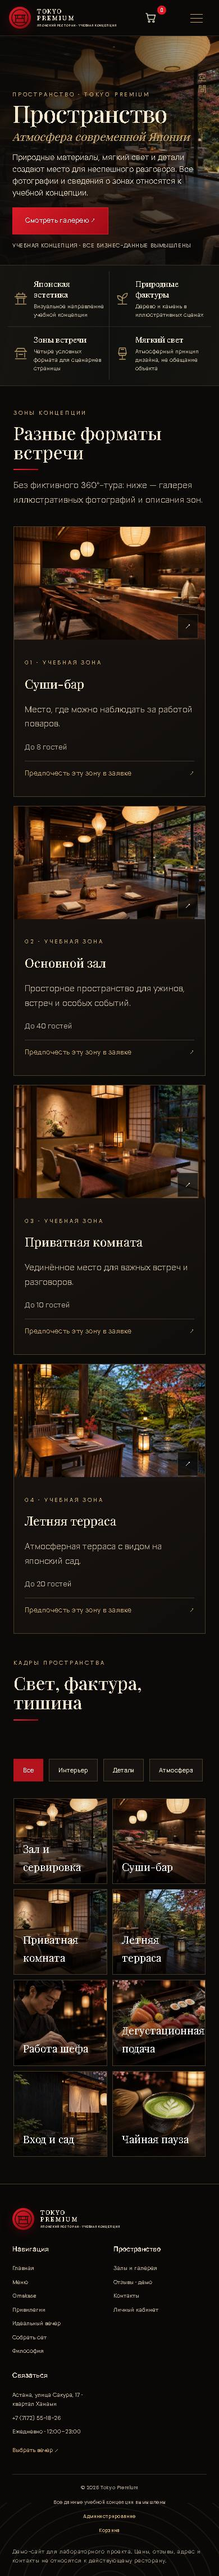
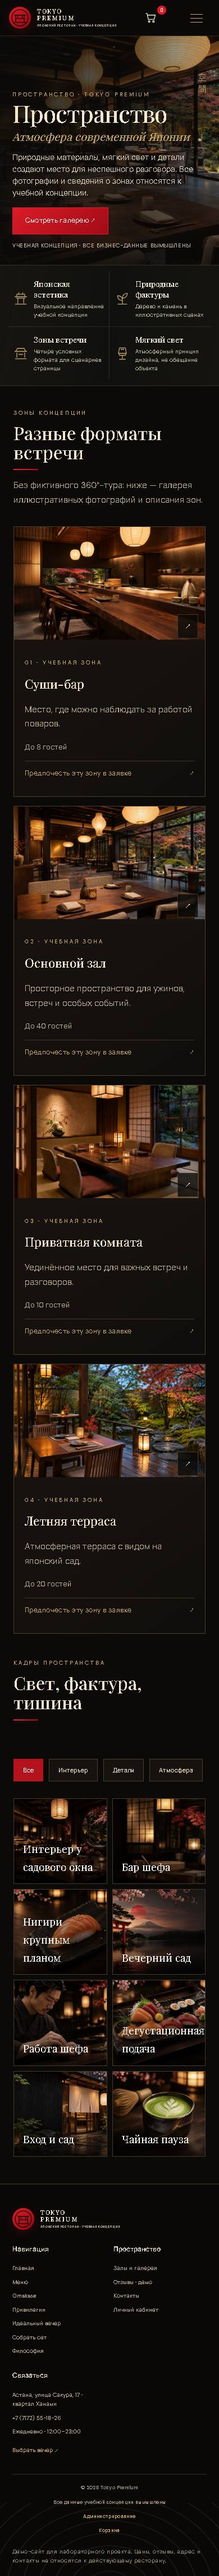
Deduplicate Tokyo gallery photography

Changed region(s): [[0.0615, 0.6834, 0.9538, 0.7766]]

diff --git a/docs/gallery.html b/docs/gallery.html
@@ -7,7 +7,7 @@
   <article><span aria-hidden="true"><svg viewBox="0 0 32 32"><path d="M10 5h12l2 11H8l2-11Zm-2 11h16l-2 4H10l-2-4Zm8 4v6m-6 2h12M13 8h6"/></svg></span><div><h3>Мягкий свет</h3><p>Атмосферный принцип дизайна, не обещание объекта</p></div></article>
 </section>
 <section class="section" id="spaces"><div class="editorial-heading"><div class="kicker">Зоны концепции</div><h2>Разные форматы встречи</h2><p>Без фиктивного 360°-тура: ниже — галерея иллюстративных фотографий и описания зон.</p></div><div class="zone-grid"><article class="zone-card" data-gallery-filter="interior"><button type="button" class="lightbox-trigger" data-lightbox="assets/generated/room-sushi-counter.webp" aria-label="Увеличить фото: Суши-бар"><img src="assets/generated/room-sushi-counter.webp" alt="Суши-бар — иллюстративное изображение учебной концепции" loading="lazy" decoding="async"><span>↗</span></button><div><span class="kicker">01 · учебная зона</span><h3>Суши-бар</h3><p>Место, где можно наблюдать за работой поваров.</p><small>До 8 гостей</small><a class="zone-booking-link" href="booking.html?zone=%D0%A1%D1%83%D1%88%D0%B8-%D0%B1%D0%B0%D1%80">Предпочесть эту зону в заявке <span aria-hidden="true">↗</span></a></div></article><article class="zone-card" data-gallery-filter="interior"><button type="button" class="lightbox-trigger" data-lightbox="assets/generated/room-main-hall.webp" aria-label="Увеличить фото: Основной зал"><img src="assets/generated/room-main-hall.webp" alt="Основной зал — иллюстративное изображение учебной концепции" loading="lazy" decoding="async"><span>↗</span></button><div><span class="kicker">02 · учебная зона</span><h3>Основной зал</h3><p>Просторное пространство для ужинов, встреч и особых событий.</p><small>До 40 гостей</small><a class="zone-booking-link" href="booking.html?zone=%D0%9E%D1%81%D0%BD%D0%BE%D0%B2%D0%BD%D0%BE%D0%B9%20%D0%B7%D0%B0%D0%BB">Предпочесть эту зону в заявке <span aria-hidden="true">↗</span></a></div></article><article class="zone-card" data-gallery-filter="details"><button type="button" class="lightbox-trigger" data-lightbox="assets/generated/room-private-dining.webp" aria-label="Увеличить фото: Приватная комната"><img src="assets/generated/room-private-dining.webp" alt="Приватная комната — иллюстративное изображение учебной концепции" loading="lazy" decoding="async"><span>↗</span></button><div><span class="kicker">03 · учебная зона</span><h3>Приватная комната</h3><p>Уединённое место для важных встреч и разговоров.</p><small>До 10 гостей</small><a class="zone-booking-link" href="booking.html?zone=%D0%9F%D1%80%D0%B8%D0%B2%D0%B0%D1%82%D0%BD%D0%B0%D1%8F%20%D0%BA%D0%BE%D0%BC%D0%BD%D0%B0%D1%82%D0%B0">Предпочесть эту зону в заявке <span aria-hidden="true">↗</span></a></div></article><article class="zone-card" data-gallery-filter="atmosphere"><button type="button" class="lightbox-trigger" data-lightbox="assets/generated/room-garden-terrace.webp" aria-label="Увеличить фото: Летняя терраса"><img src="assets/generated/room-garden-terrace.webp" alt="Летняя терраса — иллюстративное изображение учебной концепции" loading="lazy" decoding="async"><span>↗</span></button><div><span class="kicker">04 · учебная зона</span><h3>Летняя терраса</h3><p>Атмосферная терраса с видом на японский сад.</p><small>До 20 гостей</small><a class="zone-booking-link" href="booking.html?zone=%D0%9B%D0%B5%D1%82%D0%BD%D1%8F%D1%8F%20%D1%82%D0%B5%D1%80%D1%80%D0%B0%D1%81%D0%B0">Предпочесть эту зону в заявке <span aria-hidden="true">↗</span></a></div></article></div></section>
-<section class="section dark" id="gallery" data-tp-gallery><div class="gallery-toolbar"><div class="editorial-heading"><div class="kicker">Кадры пространства</div><h2>Свет, фактура, тишина</h2></div><div class="filter-row" role="group" aria-label="Фильтр галереи"><button class="filter-btn active" data-gallery="all">Все</button><button class="filter-btn" data-gallery="interior">Интерьер</button><button class="filter-btn" data-gallery="details">Детали</button><button class="filter-btn" data-gallery="atmosphere">Атмосфера</button></div></div><div class="gallery-grid" id="gallery-grid"><button class="gallery-tile" type="button" data-gallery-filter="interior" data-lightbox="assets/generated/room-main-hall.webp" aria-label="Увеличить: Зал и сервировка"><img src="assets/generated/room-main-hall.webp" alt="Зал и сервировка — учебное изображение" loading="lazy" decoding="async"><span>Зал и сервировка</span></button><button class="gallery-tile" type="button" data-gallery-filter="interior" data-lightbox="assets/generated/room-sushi-counter.webp" aria-label="Увеличить: Суши-бар"><img src="assets/generated/room-sushi-counter.webp" alt="Суши-бар — учебное изображение" loading="lazy" decoding="async"><span>Суши-бар</span></button><button class="gallery-tile" type="button" data-gallery-filter="interior" data-lightbox="assets/generated/room-private-dining.webp" aria-label="Увеличить: Приватная комната"><img src="assets/generated/room-private-dining.webp" alt="Приватная комната — учебное изображение" loading="lazy" decoding="async"><span>Приватная комната</span></button><button class="gallery-tile" type="button" data-gallery-filter="atmosphere" data-lightbox="assets/generated/room-garden-terrace.webp" aria-label="Увеличить: Летняя терраса"><img src="assets/generated/room-garden-terrace.webp" alt="Летняя терраса — учебное изображение" loading="lazy" decoding="async"><span>Летняя терраса</span></button><button class="gallery-tile" type="button" data-gallery-filter="details" data-lightbox="assets/generated/chef-at-counter.webp" aria-label="Увеличить: Работа шефа"><img src="assets/generated/chef-at-counter.webp" alt="Работа шефа — учебное изображение" loading="lazy" decoding="async"><span>Работа шефа</span></button><button class="gallery-tile" type="button" data-gallery-filter="details" data-lightbox="assets/food/17-omakase-set.webp" aria-label="Увеличить: Дегустационная подача"><img src="assets/food/17-omakase-set.webp" alt="Дегустационная подача — учебное изображение" loading="lazy" decoding="async"><span>Дегустационная подача</span></button><button class="gallery-tile" type="button" data-gallery-filter="atmosphere" data-lightbox="assets/generated/contact-exterior.webp" aria-label="Увеличить: Вход и сад"><img src="assets/generated/contact-exterior.webp" alt="Вход и сад — учебное изображение" loading="lazy" decoding="async"><span>Вход и сад</span></button><button class="gallery-tile" type="button" data-gallery-filter="details" data-lightbox="assets/food/04-matcha-latte.webp" aria-label="Увеличить: Чайная пауза"><img src="assets/food/04-matcha-latte.webp" alt="Чайная пауза — учебное изображение" loading="lazy" decoding="async"><span>Чайная пауза</span></button></div><dialog class="image-lightbox" aria-label="Просмотр фотографии"><button class="lightbox-close" type="button" aria-label="Закрыть просмотр">×</button><img alt=""><p class="lightbox-caption" data-tp-gallery-caption data-lightbox-caption aria-live="polite" aria-atomic="true"></p></dialog></section>
+<section class="section dark" id="gallery" data-tp-gallery><div class="gallery-toolbar"><div class="editorial-heading"><div class="kicker">Кадры пространства</div><h2>Свет, фактура, тишина</h2></div><div class="filter-row" role="group" aria-label="Фильтр галереи"><button class="filter-btn active" data-gallery="all">Все</button><button class="filter-btn" data-gallery="interior">Интерьер</button><button class="filter-btn" data-gallery="details">Детали</button><button class="filter-btn" data-gallery="atmosphere">Атмосфера</button></div></div><div class="gallery-grid" id="gallery-grid"><button class="gallery-tile" type="button" data-gallery-filter="interior" data-lightbox="assets/generated/restaurant-interior.webp" aria-label="Увеличить: Интерьер у садового окна"><img src="assets/generated/restaurant-interior.webp" alt="Интерьер у садового окна — учебное изображение" loading="lazy" decoding="async"><span>Интерьер у садового окна</span></button><button class="gallery-tile" type="button" data-gallery-filter="interior" data-lightbox="assets/generated/omakase-chef-panorama-1920.webp" aria-label="Увеличить: Бар шефа"><img src="assets/generated/omakase-chef-panorama-1920.webp" alt="Бар шефа — учебное изображение" loading="lazy" decoding="async"><span>Бар шефа</span></button><button class="gallery-tile" type="button" data-gallery-filter="details" data-lightbox="assets/generated/nigiri-salmon-angle-02.jpg" aria-label="Увеличить: Нигири крупным планом"><img src="assets/generated/nigiri-salmon-angle-02.jpg" alt="Нигири крупным планом — учебное изображение" loading="lazy" decoding="async"><span>Нигири крупным планом</span></button><button class="gallery-tile" type="button" data-gallery-filter="atmosphere" data-lightbox="assets/generated/contact-landscape-torii-v1.webp" aria-label="Увеличить: Вечерний сад"><img src="assets/generated/contact-landscape-torii-v1.webp" alt="Вечерний сад — учебное изображение" loading="lazy" decoding="async"><span>Вечерний сад</span></button><button class="gallery-tile" type="button" data-gallery-filter="details" data-lightbox="assets/generated/chef-at-counter.webp" aria-label="Увеличить: Работа шефа"><img src="assets/generated/chef-at-counter.webp" alt="Работа шефа — учебное изображение" loading="lazy" decoding="async"><span>Работа шефа</span></button><button class="gallery-tile" type="button" data-gallery-filter="details" data-lightbox="assets/food/17-omakase-set.webp" aria-label="Увеличить: Дегустационная подача"><img src="assets/food/17-omakase-set.webp" alt="Дегустационная подача — учебное изображение" loading="lazy" decoding="async"><span>Дегустационная подача</span></button><button class="gallery-tile" type="button" data-gallery-filter="atmosphere" data-lightbox="assets/generated/contact-exterior.webp" aria-label="Увеличить: Вход и сад"><img src="assets/generated/contact-exterior.webp" alt="Вход и сад — учебное изображение" loading="lazy" decoding="async"><span>Вход и сад</span></button><button class="gallery-tile" type="button" data-gallery-filter="details" data-lightbox="assets/food/04-matcha-latte.webp" aria-label="Увеличить: Чайная пауза"><img src="assets/food/04-matcha-latte.webp" alt="Чайная пауза — учебное изображение" loading="lazy" decoding="async"><span>Чайная пауза</span></button></div><dialog class="image-lightbox" aria-label="Просмотр фотографии"><button class="lightbox-close" type="button" aria-label="Закрыть просмотр">×</button><img alt=""><p class="lightbox-caption" data-tp-gallery-caption data-lightbox-caption aria-live="polite" aria-atomic="true"></p></dialog></section>
 </main>
 <script>window.DISHES=[{"id":1,"category":"rolls","name":"Филадельфия","description":"Нежный лосось, сливочный сыр, огурец, рис, нори.","weight":"280 г","price":4500,"image_url":"assets\/food\/01-philadelphia.webp","featured":1,"active":1,"sort_order":1,"category_name":"Роллы"},{"id":3,"category":"sushi","name":"Нигири с лососем","description":"Классические нигири с лососем.","weight":"40 г","price":1200,"image_url":"assets\/food\/03-nigiri-salmon.webp","featured":0,"active":1,"sort_order":1,"category_name":"Суши и сашими"},{"id":4,"category":"drinks","name":"Матча латте","description":"Японский чай матча на кокосовом молоке.","weight":"300 мл","price":2500,"image_url":"assets\/food\/04-matcha-latte.webp","featured":0,"active":1,"sort_order":1,"category_name":"Напитки"},{"id":7,"category":"hot","name":"Рамен с говядиной","description":"Говяжий бульон, лапша, говядина и яйцо адзитама.","weight":"550 г","price":4800,"image_url":"assets\/food\/07-ramen-beef.webp","featured":1,"active":1,"sort_order":1,"category_name":"Горячее"},{"id":8,"category":"desserts","name":"Моти","description":"Рисовое тесто с ягодной начинкой.","weight":"120 г","price":2800,"image_url":"assets\/food\/08-mochi.webp","featured":0,"active":1,"sort_order":1,"category_name":"Десерты"},{"id":12,"category":"starters","name":"Тартар из тунца с юдзу","description":"Тунец ахи, понзу с юдзу, зелёное яблоко и хрустящий рис — прохладная закуска с чистым цитрусовым финалом.","weight":"140 г","price":4900,"image_url":"assets\/food\/12-tuna-tartare-yuzu.webp","featured":0,"active":1,"sort_order":1,"category_name":"Закуски"},{"id":14,"category":"soups","name":"Мисо-суп с вакаме","description":"Светлый бульон даси, паста сира-мисо, тофу, вакаме и зелёный лук.","weight":"300 мл","price":2400,"image_url":"assets\/food\/14-miso-soup.webp","featured":0,"active":1,"sort_order":1,"category_name":"Супы"},{"id":2,"category":"rolls","name":"Калифорния","description":"Снежный краб, авокадо, огурец, икра тобико, рис.","weight":"260 г","price":4000,"image_url":"assets\/food\/02-california.webp","featured":1,"active":1,"sort_order":2,"category_name":"Роллы"},{"id":6,"category":"sushi","name":"Нигири с тунцом","description":"Нигири с тунцом.","weight":"40 г","price":1500,"image_url":"assets\/food\/06-nigiri-tuna.webp","featured":0,"active":1,"sort_order":2,"category_name":"Суши и сашими"},{"id":11,"category":"hot","name":"Удон с курицей терияки","description":"Пшеничная лапша удон, курица и овощи в соусе терияки.","weight":"450 г","price":4200,"image_url":"assets\/food\/11-udon-chicken.webp","featured":0,"active":1,"sort_order":2,"category_name":"Горячее"},{"id":13,"category":"starters","name":"Гёдза с уткой","description":"Тонкое тесто, томлёная утка, имбирь и кунжутное масло. Подаём с соусом понзу собственного состава.","weight":"6 шт.","price":4600,"image_url":"assets\/food\/13-duck-gyoza.webp","featured":0,"active":1,"sort_order":2,"category_name":"Закуски"},{"id":19,"category":"desserts","name":"Матча-тирамису","description":"Крем маскарпоне, савоярди с ходзича и пудра из церемониальной матчи.","weight":"170 г","price":3600,"image_url":"assets\/food\/19-matcha-tiramisu.webp","featured":1,"active":1,"sort_order":2,"category_name":"Десерты"},{"id":20,"category":"drinks","name":"Юдзу-лимонад","description":"Домашняя цитрусовая основа юдзу, содовая и тонкая нота свежего имбиря.","weight":"300 мл","price":2300,"image_url":"assets\/food\/20-yuzu-lemonade.webp","featured":0,"active":1,"sort_order":2,"category_name":"Напитки"},{"id":5,"category":"rolls","name":"Зелёный дракон","description":"Копчёный угорь, авокадо, сливочный сыр, соус унаги, кунжут.","weight":"300 г","price":5500,"image_url":"assets\/food\/05-green-dragon.webp","featured":0,"active":1,"sort_order":3,"category_name":"Роллы"},{"id":10,"category":"sushi","name":"Гункан с икрой","description":"Рис и нори, наполненные икрой лосося.","weight":"50 г","price":1800,"image_url":"assets\/food\/10-gunkan-roe.webp","featured":0,"active":1,"sort_order":3,"category_name":"Суши и сашими"},{"id":15,"category":"hot","name":"Эби темпура","description":"Тигровые креветки в лёгком тесте, сезонные овощи и тэнцую с дайконом.","weight":"240 г","price":5600,"image_url":"assets\/food\/15-ebi-tempura.webp","featured":1,"active":1,"sort_order":3,"category_name":"Горячее"},{"id":9,"category":"rolls","name":"Запечённый ролл «Вулкан»","description":"Лосось, огурец и сливочный сыр под шапкой из соуса спайси.","weight":"320 г","price":5200,"image_url":"assets\/food\/09-volcano.webp","featured":0,"active":1,"sort_order":4,"category_name":"Роллы"},{"id":16,"category":"hot","name":"Донбури с угрём унаги","description":"Рис косихикари, угорь с глазурью кабаяки, тамаго и маринованный дайкон.","weight":"420 г","price":6900,"image_url":"assets\/food\/16-eel-donburi.webp","featured":0,"active":1,"sort_order":4,"category_name":"Горячее"},{"id":21,"category":"sushi","name":"Нигири с морским гребешком","description":"Сладкий морской гребешок, слегка обожжённый снаружи, на рисе для суши; цитрусовый акцент юдзу.","weight":"40 г","price":2200,"image_url":"assets\/food\/21-nigiri-scallop.webp","featured":0,"active":1,"sort_order":4,"category_name":"Суши и сашими"}];</script>
 <footer class="footer"><div class="footer-main"><a class="wordmark" href="index.html" aria-label="Tokyo Premium — главная"><span class="brand-emblem" aria-hidden="true"><svg viewBox="0 0 48 48" fill="none"><circle cx="24" cy="24" r="21"/><path d="M10 17h28M13 17v19m22-19v19M10 36h28M18 17v7m12-7v7M15 26h18"/></svg></span><span class="brand-type">TOKYO <i>PREMIUM</i><small>ЯПОНСКИЙ РЕСТОРАН · УЧЕБНАЯ КОНЦЕПЦИЯ</small></span></a><div><strong>Навигация</strong><a href="index.html">Главная</a><a href="menu.html">Меню</a><a href="omakase.html">Omakase</a><a href="offers.html">Привилегии</a><a href="perfect-evening.html">Идеальный вечер</a><a href="set-builder.html">Собрать сет</a><a href="about.html">Философия</a></div><div><strong>Пространство</strong><a href="gallery.html">Залы и галерея</a><a href="reviews.html">Отзывы · демо</a><a href="contacts.html">Контакты</a><a href="account.html">Личный кабинет</a></div><div><strong>Связаться</strong><span>Астана, улица Сакура, 17 · квартал Ханами</span><span>+7 (7172) 55-18-26</span><span>Ежедневно · 12:00–23:00</span><a class="footer-booking" href="booking.html">Выбрать вечер ↗</a></div></div><div class="footer-bottom"><span>© 2026 Tokyo Premium</span><span>Все данные учебной концепции вымышлены</span><a href="cart.html">Корзина</a></div><p class="school-note">Демо-сайт для лабораторного проекта. Цены, отзывы, адрес и контакты не относятся к действующему ресторану.</p></footer><div class="toast" role="status" aria-live="polite"></div><script>window.DISHES=window.DISHES||[{"id":1,"category":"rolls","name":"Филадельфия","description":"Нежный лосось, сливочный сыр, огурец, рис, нори.","weight":"280 г","price":4500,"image_url":"assets\/food\/01-philadelphia.webp","featured":1,"active":1,"sort_order":1,"category_name":"Роллы"},{"id":3,"category":"sushi","name":"Нигири с лососем","description":"Классические нигири с лососем.","weight":"40 г","price":1200,"image_url":"assets\/food\/03-nigiri-salmon.webp","featured":0,"active":1,"sort_order":1,"category_name":"Суши и сашими"},{"id":4,"category":"drinks","name":"Матча латте","description":"Японский чай матча на кокосовом молоке.","weight":"300 мл","price":2500,"image_url":"assets\/food\/04-matcha-latte.webp","featured":0,"active":1,"sort_order":1,"category_name":"Напитки"},{"id":7,"category":"hot","name":"Рамен с говядиной","description":"Говяжий бульон, лапша, говядина и яйцо адзитама.","weight":"550 г","price":4800,"image_url":"assets\/food\/07-ramen-beef.webp","featured":1,"active":1,"sort_order":1,"category_name":"Горячее"},{"id":8,"category":"desserts","name":"Моти","description":"Рисовое тесто с ягодной начинкой.","weight":"120 г","price":2800,"image_url":"assets\/food\/08-mochi.webp","featured":0,"active":1,"sort_order":1,"category_name":"Десерты"},{"id":12,"category":"starters","name":"Тартар из тунца с юдзу","description":"Тунец ахи, понзу с юдзу, зелёное яблоко и хрустящий рис — прохладная закуска с чистым цитрусовым финалом.","weight":"140 г","price":4900,"image_url":"assets\/food\/12-tuna-tartare-yuzu.webp","featured":0,"active":1,"sort_order":1,"category_name":"Закуски"},{"id":14,"category":"soups","name":"Мисо-суп с вакаме","description":"Светлый бульон даси, паста сира-мисо, тофу, вакаме и зелёный лук.","weight":"300 мл","price":2400,"image_url":"assets\/food\/14-miso-soup.webp","featured":0,"active":1,"sort_order":1,"category_name":"Супы"},{"id":2,"category":"rolls","name":"Калифорния","description":"Снежный краб, авокадо, огурец, икра тобико, рис.","weight":"260 г","price":4000,"image_url":"assets\/food\/02-california.webp","featured":1,"active":1,"sort_order":2,"category_name":"Роллы"},{"id":6,"category":"sushi","name":"Нигири с тунцом","description":"Нигири с тунцом.","weight":"40 г","price":1500,"image_url":"assets\/food\/06-nigiri-tuna.webp","featured":0,"active":1,"sort_order":2,"category_name":"Суши и сашими"},{"id":11,"category":"hot","name":"Удон с курицей терияки","description":"Пшеничная лапша удон, курица и овощи в соусе терияки.","weight":"450 г","price":4200,"image_url":"assets\/food\/11-udon-chicken.webp","featured":0,"active":1,"sort_order":2,"category_name":"Горячее"},{"id":13,"category":"starters","name":"Гёдза с уткой","description":"Тонкое тесто, томлёная утка, имбирь и кунжутное масло. Подаём с соусом понзу собственного состава.","weight":"6 шт.","price":4600,"image_url":"assets\/food\/13-duck-gyoza.webp","featured":0,"active":1,"sort_order":2,"category_name":"Закуски"},{"id":19,"category":"desserts","name":"Матча-тирамису","description":"Крем маскарпоне, савоярди с ходзича и пудра из церемониальной матчи.","weight":"170 г","price":3600,"image_url":"assets\/food\/19-matcha-tiramisu.webp","featured":1,"active":1,"sort_order":2,"category_name":"Десерты"},{"id":20,"category":"drinks","name":"Юдзу-лимонад","description":"Домашняя цитрусовая основа юдзу, содовая и тонкая нота свежего имбиря.","weight":"300 мл","price":2300,"image_url":"assets\/food\/20-yuzu-lemonade.webp","featured":0,"active":1,"sort_order":2,"category_name":"Напитки"},{"id":5,"category":"rolls","name":"Зелёный дракон","description":"Копчёный угорь, авокадо, сливочный сыр, соус унаги, кунжут.","weight":"300 г","price":5500,"image_url":"assets\/food\/05-green-dragon.webp","featured":0,"active":1,"sort_order":3,"category_name":"Роллы"},{"id":10,"category":"sushi","name":"Гункан с икрой","description":"Рис и нори, наполненные икрой лосося.","weight":"50 г","price":1800,"image_url":"assets\/food\/10-gunkan-roe.webp","featured":0,"active":1,"sort_order":3,"category_name":"Суши и сашими"},{"id":15,"category":"hot","name":"Эби темпура","description":"Тигровые креветки в лёгком тесте, сезонные овощи и тэнцую с дайконом.","weight":"240 г","price":5600,"image_url":"assets\/food\/15-ebi-tempura.webp","featured":1,"active":1,"sort_order":3,"category_name":"Горячее"},{"id":9,"category":"rolls","name":"Запечённый ролл «Вулкан»","description":"Лосось, огурец и сливочный сыр под шапкой из соуса спайси.","weight":"320 г","price":5200,"image_url":"assets\/food\/09-volcano.webp","featured":0,"active":1,"sort_order":4,"category_name":"Роллы"},{"id":16,"category":"hot","name":"Донбури с угрём унаги","description":"Рис косихикари, угорь с глазурью кабаяки, тамаго и маринованный дайкон.","weight":"420 г","price":6900,"image_url":"assets\/food\/16-eel-donburi.webp","featured":0,"active":1,"sort_order":4,"category_name":"Горячее"},{"id":21,"category":"sushi","name":"Нигири с морским гребешком","description":"Сладкий морской гребешок, слегка обожжённый снаружи, на рисе для суши; цитрусовый акцент юдзу.","weight":"40 г","price":2200,"image_url":"assets\/food\/21-nigiri-scallop.webp","featured":0,"active":1,"sort_order":4,"category_name":"Суши и сашими"}];</script><script src="cart-store.js" defer></script><script src="luxury.js" defer></script><script src="pages-extra.js" defer></script><script src="pages-demo.js" defer></script><script src="reviews.js" defer></script><script src="navigation.js" defer></script><script src="experience-ui.js" defer></script><script src="tokyo-secret-demo.js" defer></script><script src="tokyo20.js" defer></script><script>window.TOKYO_STATIC_DEMO=true;</script></body></html>

diff --git a/pages.php b/pages.php
@@ -122,7 +122,7 @@ if(!$omakaseCourses) foreach(array_slice($all,0,5) as $dish) $omakaseCourses[]=[
   <article><span aria-hidden="true"><svg viewBox="0 0 32 32"><path d="M10 5h12l2 11H8l2-11Zm-2 11h16l-2 4H10l-2-4Zm8 4v6m-6 2h12M13 8h6"/></svg></span><div><h3>Мягкий свет</h3><p>Атмосферный принцип дизайна, не обещание объекта</p></div></article>
 </section>
 <section class="section" id="spaces"><div class="editorial-heading"><div class="kicker">Зоны концепции</div><h2>Разные форматы встречи</h2><p>Без фиктивного 360°-тура: ниже — галерея иллюстративных фотографий и описания зон.</p></div><div class="zone-grid"><?php foreach([['Суши-бар','До 8 гостей','assets/generated/room-sushi-counter.webp','Место, где можно наблюдать за работой поваров.'],['Основной зал','До 40 гостей','assets/generated/room-main-hall.webp','Просторное пространство для ужинов, встреч и особых событий.'],['Приватная комната','До 10 гостей','assets/generated/room-private-dining.webp','Уединённое место для важных встреч и разговоров.'],['Летняя терраса','До 20 гостей','assets/generated/room-garden-terrace.webp','Атмосферная терраса с видом на японский сад.']] as $i=>$zone): ?><article class="zone-card" data-gallery-filter="<?=['interior','interior','details','atmosphere'][$i]?>"><button type="button" class="lightbox-trigger" data-lightbox="<?=e($zone[2])?>" aria-label="Увеличить фото: <?=e($zone[0])?>"><img src="<?=e($zone[2])?>" alt="<?=e($zone[0])?> — иллюстративное изображение учебной концепции" loading="lazy" decoding="async"><span>↗</span></button><div><span class="kicker"><?=sprintf('%02d',$i+1)?> · учебная зона</span><h3><?=e($zone[0])?></h3><p><?=e($zone[3])?></p><small><?=e($zone[1])?></small><a class="zone-booking-link" href="pages.php?page=booking&amp;zone=<?=rawurlencode($zone[0])?>">Предпочесть эту зону в заявке <span aria-hidden="true">↗</span></a></div></article><?php endforeach ?></div></section>
-<section class="section dark" id="gallery" data-tp-gallery><div class="gallery-toolbar"><div class="editorial-heading"><div class="kicker">Кадры пространства</div><h2>Свет, фактура, тишина</h2></div><div class="filter-row" role="group" aria-label="Фильтр галереи"><button class="filter-btn active" data-gallery="all">Все</button><button class="filter-btn" data-gallery="interior">Интерьер</button><button class="filter-btn" data-gallery="details">Детали</button><button class="filter-btn" data-gallery="atmosphere">Атмосфера</button></div></div><div class="gallery-grid" id="gallery-grid"><?php foreach([['assets/generated/room-main-hall.webp','Зал и сервировка','interior'],['assets/generated/room-sushi-counter.webp','Суши-бар','interior'],['assets/generated/room-private-dining.webp','Приватная комната','interior'],['assets/generated/room-garden-terrace.webp','Летняя терраса','atmosphere'],['assets/generated/chef-at-counter.webp','Работа шефа','details'],['assets/food/17-omakase-set.webp','Дегустационная подача','details'],['assets/generated/contact-exterior.webp','Вход и сад','atmosphere'],['assets/food/04-matcha-latte.webp','Чайная пауза','details']] as $i=>$item): ?><button class="gallery-tile" type="button" data-gallery-filter="<?=e($item[2])?>" data-lightbox="<?=e($item[0])?>" aria-label="Увеличить: <?=e($item[1])?>"><img src="<?=e($item[0])?>" alt="<?=e($item[1])?> — учебное изображение" loading="lazy" decoding="async"><span><?=e($item[1])?></span></button><?php endforeach ?></div><dialog class="image-lightbox" aria-label="Просмотр фотографии"><button class="lightbox-close" type="button" aria-label="Закрыть просмотр">×</button><img alt=""><p class="lightbox-caption" data-tp-gallery-caption data-lightbox-caption aria-live="polite" aria-atomic="true"></p></dialog></section>
+<section class="section dark" id="gallery" data-tp-gallery><div class="gallery-toolbar"><div class="editorial-heading"><div class="kicker">Кадры пространства</div><h2>Свет, фактура, тишина</h2></div><div class="filter-row" role="group" aria-label="Фильтр галереи"><button class="filter-btn active" data-gallery="all">Все</button><button class="filter-btn" data-gallery="interior">Интерьер</button><button class="filter-btn" data-gallery="details">Детали</button><button class="filter-btn" data-gallery="atmosphere">Атмосфера</button></div></div><div class="gallery-grid" id="gallery-grid"><?php foreach([['assets/generated/restaurant-interior.webp','Интерьер у садового окна','interior'],['assets/generated/omakase-chef-panorama-1920.webp','Бар шефа','interior'],['assets/generated/nigiri-salmon-angle-02.jpg','Нигири крупным планом','details'],['assets/generated/contact-landscape-torii-v1.webp','Вечерний сад','atmosphere'],['assets/generated/chef-at-counter.webp','Работа шефа','details'],['assets/food/17-omakase-set.webp','Дегустационная подача','details'],['assets/generated/contact-exterior.webp','Вход и сад','atmosphere'],['assets/food/04-matcha-latte.webp','Чайная пауза','details']] as $i=>$item): ?><button class="gallery-tile" type="button" data-gallery-filter="<?=e($item[2])?>" data-lightbox="<?=e($item[0])?>" aria-label="Увеличить: <?=e($item[1])?>"><img src="<?=e($item[0])?>" alt="<?=e($item[1])?> — учебное изображение" loading="lazy" decoding="async"><span><?=e($item[1])?></span></button><?php endforeach ?></div><dialog class="image-lightbox" aria-label="Просмотр фотографии"><button class="lightbox-close" type="button" aria-label="Закрыть просмотр">×</button><img alt=""><p class="lightbox-caption" data-tp-gallery-caption data-lightbox-caption aria-live="polite" aria-atomic="true"></p></dialog></section>
 <?php elseif($view==='booking'): ?>
 <?php ep_hero('予約','ПЛАНИРУЙТЕ ВЕЧЕР','Бронирование','Забронируйте свой столик.','В PHP-версии форма отправит заявку для последующего подтверждения. На GitHub Pages она сохранится локально и не резервирует стол.','assets/generated/restaurant-interior.webp','Зал с сакурой и сервировкой в вымышленной учебной концепции','Выбрать параметры','#booking-form','','booking-hero'); ?>
 <section class="section booking-benefits-section"><div class="booking-benefits"><?php foreach([['01','Спокойный выбор','Заранее подберите подходящую зону.'],['02','Пожелания','Укажите повод или предпочтения.'],['03','Подтверждение','Заявка — запрос, бронь подтверждается отдельно.']] as $b): ?><article><span><?=e($b[0])?></span><h3><?=e($b[1])?></h3><p><?=e($b[2])?></p></article><?php endforeach ?></div></section>

diff --git a/project-docs/visual-qa/reference-repair-followup-2026-11-17.md b/project-docs/visual-qa/reference-repair-followup-2026-11-17.md
@@ -31,3 +31,10 @@ This note covers two of the eleven approved reference pages. It is not a claim o
 - Kept all account sections and server-backed status semantics visible; this CSS pass did not fabricate account history or change account data behavior.
 - `npm run test:visual-fidelity` passed for the account route in PHP and static modes. Browser assertions cover the compact hero, summary geometry, concise empty states, seven in-page navigation targets, and mobile overflow. Fresh PHP desktop/mobile captures were inspected.
 - This improves density but does not establish full parity with reference 11. Comprehensive account flows, full-site QA, hosted CI, and public deployment remain pending.
+## Пространство / галерея — фото без повторов
+
+В исходном блоке галереи первые четыре кадра повторяли изображения карточек залов. Заменил эти четыре позиции на отдельные интерьерный, chef-counter, блюдо и садовый кадры из уже имеющихся ресурсов; все восемь изображений теперь уникальны и не совпадают с фото карточек залов. Порядок секций и галерейный lightbox сохранены. Это функционально-честная галерея фотографий, не 360°-тур.
+
+Сверка с `design-references/06-gallery.png`: сохранена последовательность hero → принципы пространства → карточки зон → фильтруемая галерея → footer. Фотографии и композиция галереи теперь разнообразнее; структура вёрстки остаётся компактнее и отличается от макета, поэтому полный визуальный паритет не заявляется.
+
+Проверено: `npm run test:visual-fidelity` на PHP и Pages для маршрута `space`, включая уникальность 8 изображений, отсутствие повторов с карточками залов и загрузку изображений; `npm run test:gallery-caption`; `php -l pages.php`; `node --check tests/visual-fidelity-regression.cjs`; `git diff --check`. Захвачены и просмотрены PHP и статические скриншоты desktop/mobile: `2.0-visual-fidelity/space-{php,static}-{desktop,mobile}.jpg`.

diff --git a/project-docs/testing-report.md b/project-docs/testing-report.md
@@ -504,3 +504,6 @@ The PHP profile navigation is now compact, icon-led, and marks the section curre
 ## 2026-11-17 PHP account dashboard density
 
 The account route passed `npm run test:visual-fidelity` in both PHP and static modes. The PHP desktop capture checks a hero height at or below 320 px, a two-by-two metric grid, concise empty history panels, and all seven dashboard navigation targets; the mobile route retains the no-overflow check. Screenshots are in `project-docs/visual-qa/2.0-visual-fidelity/account-php-{desktop,mobile}.jpg`. This is a focused visual pass; it does not verify every account transaction or the full PHP/SQLite integration suite.
+## 2026-11-17 галерея пространства: отдельные фотографии
+
+Первые четыре кадра галереи больше не повторяют фотографии карточек залов. Добавлены проверки уникальных источников и отсутствия дублей между галереей и карточками зон. `npm run test:visual-fidelity` прошёл для PHP и статической версии на маршруте `space`; `npm run test:gallery-caption`, PHP lint, JS syntax и `git diff --check` прошли. Просмотрены desktop/mobile скриншоты обеих версий в `project-docs/visual-qa/2.0-visual-fidelity/`. Сравнение с `design-references/06-gallery.png` подтверждает сохранение общей структуры секций, но не полный визуальный паритет.

diff --git a/project-docs/visual-qa/README.md b/project-docs/visual-qa/README.md
@@ -269,4 +269,4 @@ Compact PHP account navigation, active-section accessibility state and server-st
 
 ## 2026-11-17 PHP account density pass
 
-`2.0-visual-fidelity/account-php-{desktop,mobile}.jpg` shows the PHP dashboard after tightening the hero and empty history states. The focused account visual-fidelity regression passed in PHP and static modes, including the desktop two-by-two metric layout and mobile overflow check. The dashboard remains richer and longer than reference 11, so this is an improvement rather than a full parity claim.
+`2.0-visual-fidelity/account-php-{desktop,mobile}.jpg` shows the PHP dashboard after tightening the hero and empty history states. The focused account visual-fidelity regression passed in PHP and static modes, including the desktop two-by-two metric layout and mobile overflow check. The dashboard remains richer and longer than reference 11, so this is an improvement rather than a full parity claim.- The 2026-11-17 gallery follow-up uses distinct photographs in the eight-tile gallery and checks that none repeat the four room-card photos. PHP and static screenshots are `2.0-visual-fidelity/space-php-desktop.jpg`, `space-php-mobile.jpg`, `space-static-desktop.jpg`, and `space-static-mobile.jpg`; this focused pass does not establish full visual parity with reference 06.

diff --git a/project-docs/final-modernization-report.md b/project-docs/final-modernization-report.md
@@ -385,3 +385,6 @@ Compared current PHP captures with approved references 03 and 04. Fixed the dish
 ## 2026-11-17 account dashboard visual pass
 
 The authenticated PHP account dashboard now uses a shorter hero, a compact metric grid alongside Tokyo Privilege, and denser empty states for notifications, orders, and bookings. Focused visual-fidelity tests passed for PHP and static account routes; fresh PHP desktop and mobile screenshots were reviewed. The change keeps all account modules present and does not seed fabricated server history. Reference 11 still has broader layout differences, and the full Tokyo Premium 2.0 objective remains incomplete. The current working-tree changes have not yet been published.
+## 2026-11-17 — gallery photo deduplication
+
+Updated the PHP and GitHub Pages gallery so its eight photographs are unique and do not reuse the images in the four room cards. Added browser assertions for both conditions, exported the static gallery, and passed focused PHP/static visual-fidelity plus gallery caption tests. Desktop and mobile screenshots of both modes were reviewed against reference 06. The page preserves the broad section order but still differs from the reference; complete visual parity and full-site acceptance remain open.
